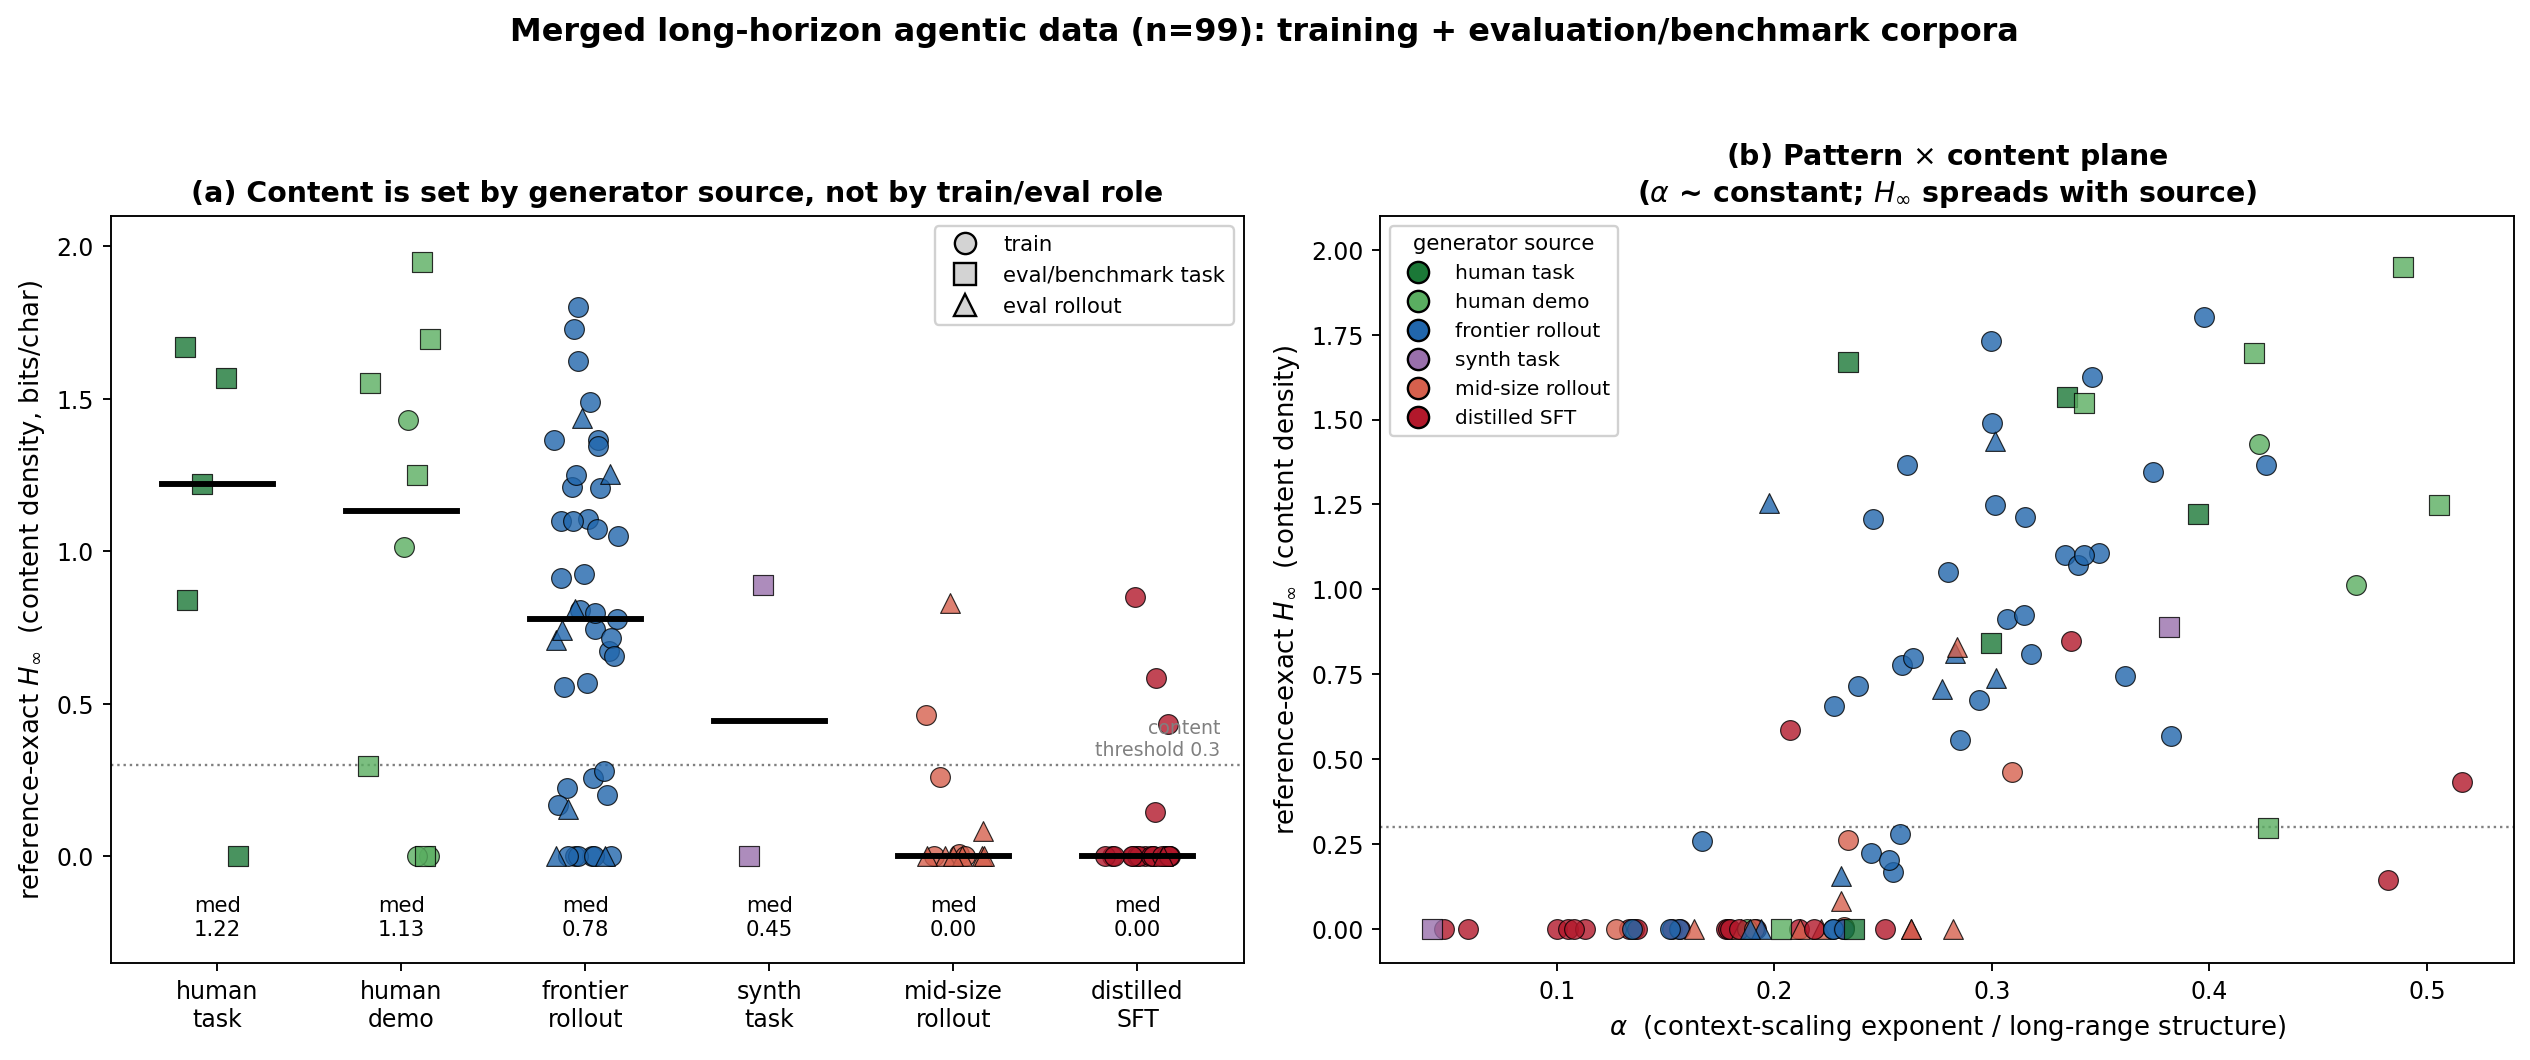
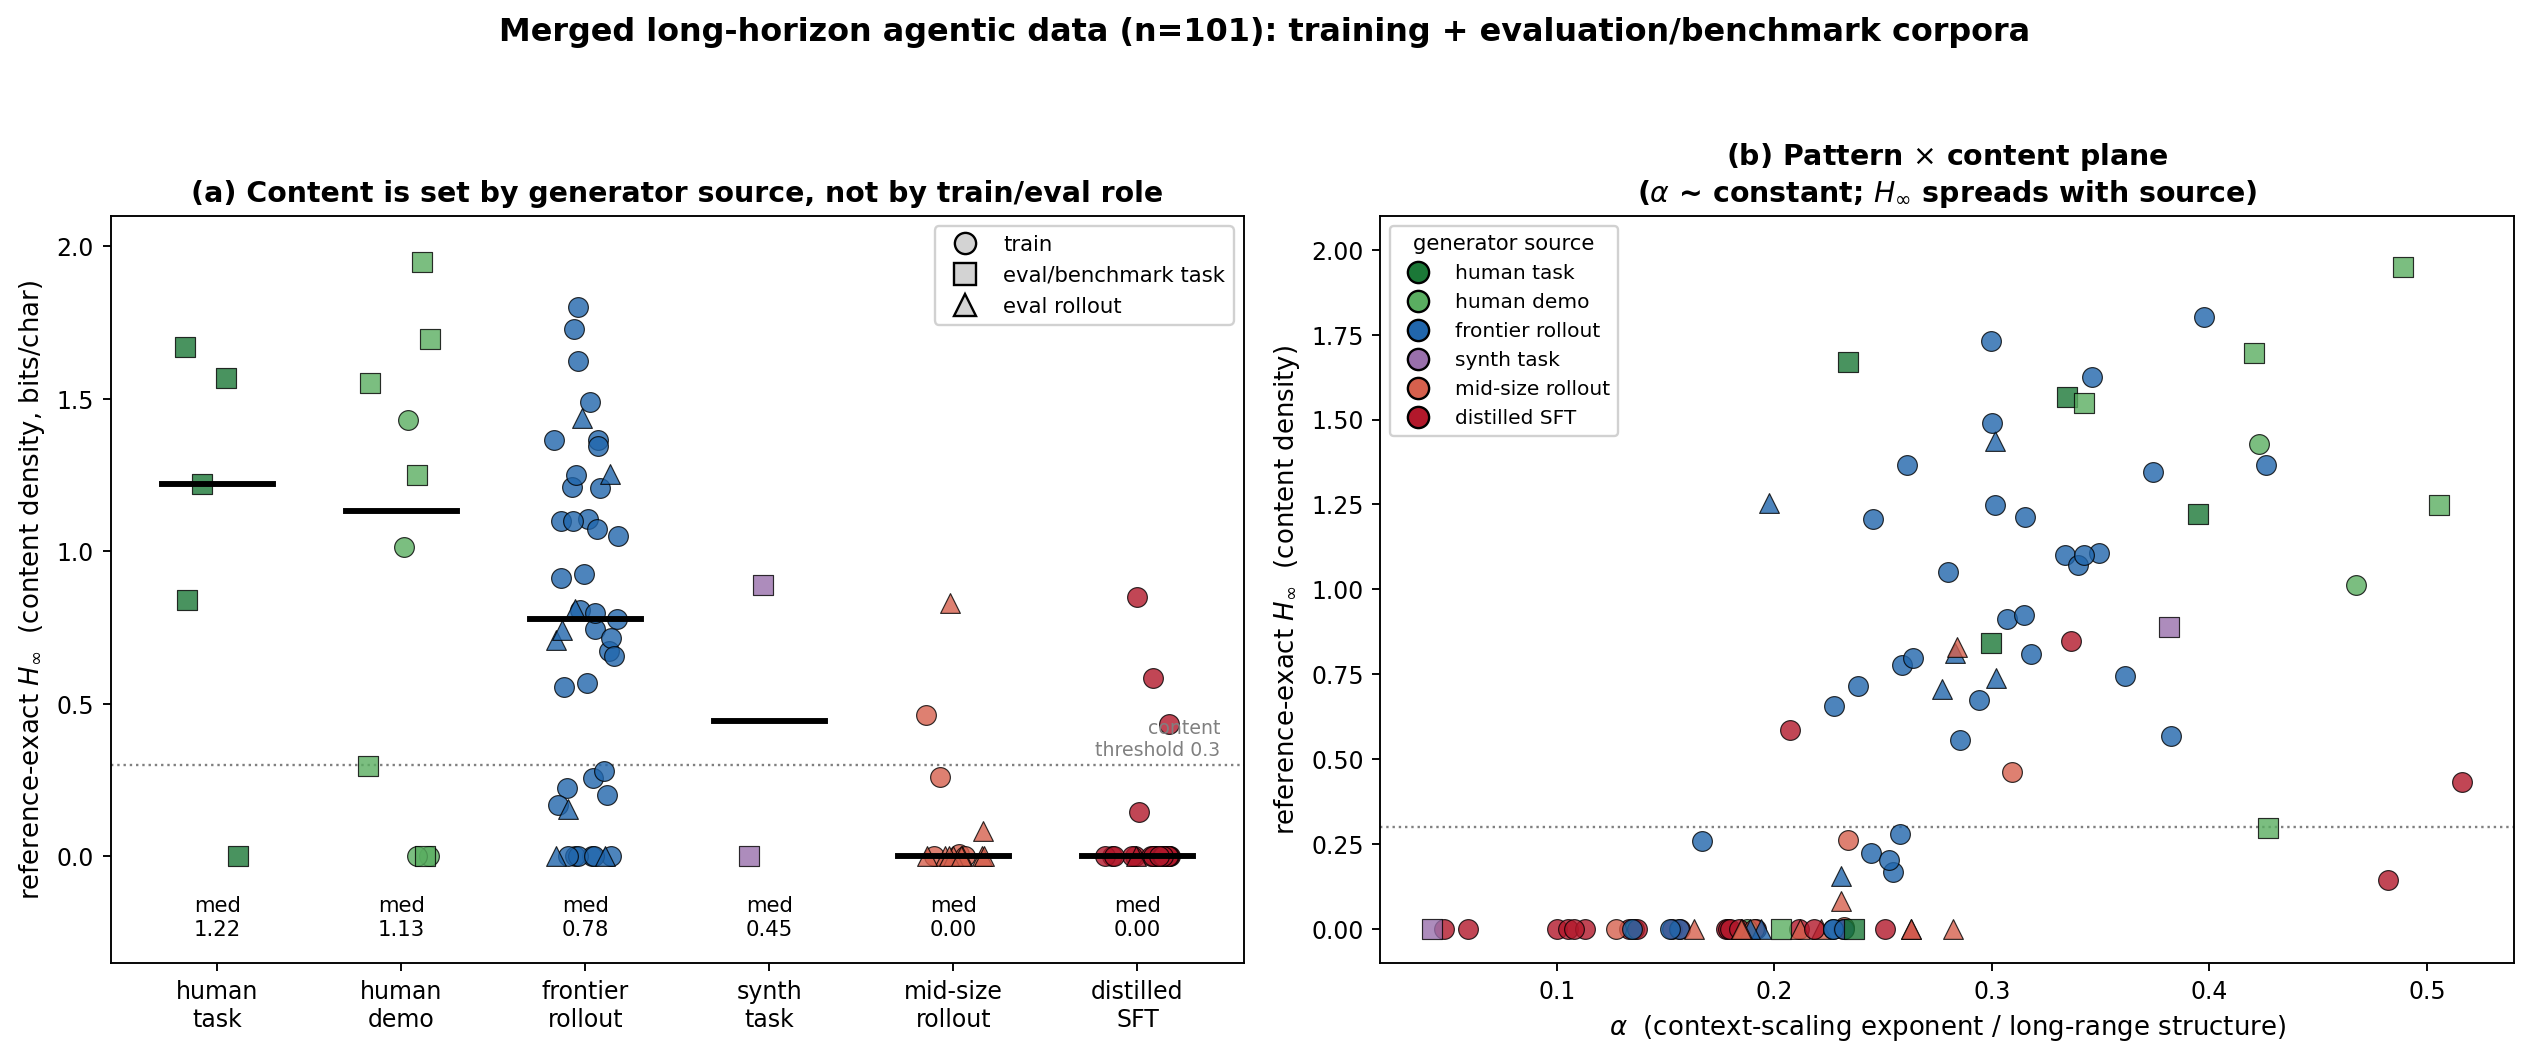
iter 72: extend terminus-2 capability ladder (+GPT-5-nano, +Claude-Haiku-4.5) -> hardens paper section 5.3
Full 5-point fixed-harness ladder: H_inf pinned at 0 for ALL, BPC@32K spans 0.97->1.77 ordering by capability/success (flagship GPT-5 1.77/Sonnet 1.75 > small Haiku 1.53/nano 1.43 > open Qwen3-32B 0.97, whose 172-turn failure loop dilutes density). Strongest evidence yet for the within-fixed-harness claim: H_inf useless, BPC@32K + turn-count track the generator. Registry -> 101 active / 107 CSV rows; paper exhibit expanded + counts synced (n=101).

Changed region(s): [[0.1874, 0.0, 0.8119, 0.0623], [0.4372, 0.7472, 0.4684, 0.7783]]

diff --git a/scripts/score_iter72.py b/scripts/score_iter72.py
@@ -1,0 +1,51 @@
+"""iter-72: extend the Terminal-Bench-2 / terminus-2 capability ladder.
+
+Adds GPT-5-nano and Claude-Haiku-4.5 rollouts (both terminus-2 harness) to
+harden the paper's within-fixed-harness claim that BPC@32K orders generators by
+capability. Reference-exact lz_oracle.score; full 17-col rows appended.
+"""
+import csv, datetime, json, os, statistics, sys
+sys.path.insert(0, os.path.dirname(__file__))
+import lz_oracle
+from datasets import load_dataset
+from huggingface_hub import HfApi
+
+ENTRIES = [
+    ("DCAgent/GPT-5-nano-terminal-bench-2", "train", "terminal-bench2-gpt5nano"),
+    ("DCAgent/eval-terminal-bench-2.0-claude-haiku-4-5-20251001-20260115_165217",
+     "train", "terminal-bench2-claude-haiku45"),
+]
+FIELDS = ["dataset","config","splits","slug","alpha","h_inf","h_inf_raw","bpc_128",
+          "bpc_2048","bpc_32768","n_episodes","mean_turns","mean_doc_bytes","n_bytes",
+          "h_inf_v3","h_inf_stderr","resolved"]
+OUT="data/agentic_alpha_hinf.csv"; rows=[]
+for path, split, slug in ENTRIES:
+    print(f"-> {path} ({slug})", flush=True)
+    docs,turns,size=[],[],0
+    for row in load_dataset(path, split=split, streaming=True):
+        msgs=row["conversations"]
+        doc="\n\n".join(f"[{m.get('role','?')}]\n{m.get('content') or ''}" for m in msgs)
+        if not doc: continue
+        docs.append(doc); turns.append(len(msgs)); size+=len(doc)
+        if len(docs)>=lz_oracle.MAX_DOCS or size>=lz_oracle.MAX_BYTES: break
+    s=lz_oracle.score(docs)
+    try: sha=HfApi().dataset_info(path).sha
+    except Exception: sha="unresolved"
+    rec={"dataset":path,"config":"","splits":split,"slug":slug,"alpha":s["alpha"],
+         "h_inf":s["h_inf"],"h_inf_raw":s["h_inf_raw"],"bpc_128":s["bpc_128"],
+         "bpc_2048":s["bpc_2048"],"bpc_32768":s["bpc_32768"],"n_episodes":len(docs),
+         "mean_turns":round(statistics.mean(turns),1) if turns else 0,
+         "mean_doc_bytes":round(statistics.mean(len(d) for d in docs)) if docs else 0,
+         "n_bytes":s["n_bytes"],"h_inf_v3":"","h_inf_stderr":"","resolved":""}
+    rows.append(rec)
+    print(f"   alpha={s['alpha']:.3f} H_inf={s['h_inf']:.3f} BPC@32K={s['bpc_32768']:.3f} ep={len(docs)} turns={rec['mean_turns']}", flush=True)
+    os.makedirs("data/provenance",exist_ok=True)
+    prov={"hf_dataset":path,"hf_url":f"https://huggingface.co/datasets/{path}","hf_revision_sha":sha,
+          "splits":[split],"serializer":"conversations_rc",
+          "oracle":{"compressor":f"zstd level {lz_oracle.ZSTD_LEVEL}","context_points":list(lz_oracle.N_POINTS)},
+          "collected_at_utc":datetime.datetime.now(datetime.timezone.utc).isoformat(),
+          "result":{k:rec[k] for k in ("alpha","h_inf","bpc_32768","n_episodes","mean_turns","n_bytes")}}
+    json.dump(prov,open(f"data/provenance/{slug}.json","w"),indent=2,ensure_ascii=False)
+with open(OUT,"a",newline="") as f:
+    csv.DictWriter(f,fieldnames=FIELDS).writerows(rows)
+print(f"\nappended {len(rows)} rows -> {OUT}")

diff --git a/scripts/build_merged_table.py b/scripts/build_merged_table.py
@@ -55,6 +55,9 @@ CLASS = {
     "terminal-bench2-claude-sonnet45":       ("EVAL_TRAJ", "terminal", "frontier"),
     # iter 71: frontier SWE-bench-Verified rollout (mini-swe-agent harness)
     "swebench-verified-claude-sonnet45-eval":("EVAL_TRAJ", "swe",      "frontier"),
+    # iter 72: extend terminus-2 capability ladder (small models)
+    "terminal-bench2-gpt5nano":              ("EVAL_TRAJ", "terminal", "mid"),
+    "terminal-bench2-claude-haiku45":        ("EVAL_TRAJ", "terminal", "mid"),
     # --- human-demonstration datasets (benchmarks w/ test splits + demos) ---
     "mind2web-actions":        ("EVAL_TASK", "web",    "human_demo"),
     "mind2web-fullobs":        ("EVAL_TASK", "web",    "human_demo"),

diff --git a/paper/long_horizon_agentic_data.md b/paper/long_horizon_agentic_data.md
@@ -1,13 +1,13 @@
 # A Compression-Oracle Survey of Long-Horizon Agentic Data: Merging Training and Evaluation by Pattern and Content
 
 **long-agentic-data project**
-*Built from the `SAMPLES.md` registry (99 active datasets / 105 scored rows, iters 1–71). Per-row table: `data/merged_analysis.csv` (`scripts/build_merged_table.py`). Figures: `figures/`. Supporting reports: `reports/`.*
+*Built from the `SAMPLES.md` registry (101 active datasets / 107 scored rows, iters 1–72). Per-row table: `data/merged_analysis.csv` (`scripts/build_merged_table.py`). Figures: `figures/`. Supporting reports: `reports/`.*
 
 ---
 
 ## Abstract
 
-We survey **99 long-horizon agentic corpora** — spanning model-trained SFT/RL trajectories, human-written benchmark tasks, human demonstrations, and agent rollouts collected on benchmarks — with a single cheap, tokenizer-free compression oracle, and merge training and evaluation data into one measurement table. For every corpus we measure a *pattern* axis (the context-scaling exponent α, the token-correlation decay β, and the Hurst exponent H) and a *content* axis (the reference-exact incompressible floor H∞, validated against true neural oracles at Spearman 0.97, with a directly measured companion BPC@32K). We report two dissociated findings. First, **pattern is a property of the agentic *format***: α is nearly constant across train/eval roles (median 0.24–0.34), and agentic data occupies a distinct correlation-decay phase (β ≈ 0.2–0.5) that does not overlap natural-language prose (β ≈ 1.1–1.4), with code/math as the bridge (β ≈ 0.5–0.8). Second, **content is set by who authored the token stream, not by whether the data is for training or testing**: median H∞ falls monotonically with generator source (human task 1.22, human demo 1.13, frontier rollout 0.78, synthetic task 0.45, mid-size rollout 0.00, distilled SFT 0.00), and this ordering cuts across the train/eval boundary — mid-size eval rollouts collapse to the template floor exactly as distilled training mixtures do. The consequence is a measurable **content gap**: the benchmark tasks we score agents against are human-authored and dense (median H∞ 1.22) while the training data we feed agents is content-sparse (median 0.26). We connect these statistics to a learning-curve theory (α_D = γ/2β) and to a training experiment that confirms SFT teaches trajectory *form*, and we surface one method caveat that survived audit: on single-harness-pooled eval rollouts the 3-point H∞ measures the agent scaffold as much as the generator, so BPC@32K and turn-count are the robust separators there. We keep the reference 3-point clamped H∞ as canonical for cross-domain comparability.
+We survey **101 long-horizon agentic corpora** — spanning model-trained SFT/RL trajectories, human-written benchmark tasks, human demonstrations, and agent rollouts collected on benchmarks — with a single cheap, tokenizer-free compression oracle, and merge training and evaluation data into one measurement table. For every corpus we measure a *pattern* axis (the context-scaling exponent α, the token-correlation decay β, and the Hurst exponent H) and a *content* axis (the reference-exact incompressible floor H∞, validated against true neural oracles at Spearman 0.97, with a directly measured companion BPC@32K). We report two dissociated findings. First, **pattern is a property of the agentic *format***: α is nearly constant across train/eval roles (median 0.24–0.34), and agentic data occupies a distinct correlation-decay phase (β ≈ 0.2–0.5) that does not overlap natural-language prose (β ≈ 1.1–1.4), with code/math as the bridge (β ≈ 0.5–0.8). Second, **content is set by who authored the token stream, not by whether the data is for training or testing**: median H∞ falls monotonically with generator source (human task 1.22, human demo 1.13, frontier rollout 0.78, synthetic task 0.45, mid-size rollout 0.00, distilled SFT 0.00), and this ordering cuts across the train/eval boundary — mid-size eval rollouts collapse to the template floor exactly as distilled training mixtures do. The consequence is a measurable **content gap**: the benchmark tasks we score agents against are human-authored and dense (median H∞ 1.22) while the training data we feed agents is content-sparse (median 0.26). We connect these statistics to a learning-curve theory (α_D = γ/2β) and to a training experiment that confirms SFT teaches trajectory *form*, and we surface one method caveat that survived audit: on single-harness-pooled eval rollouts the 3-point H∞ measures the agent scaffold as much as the generator, so BPC@32K and turn-count are the robust separators there. We keep the reference 3-point clamped H∞ as canonical for cross-domain comparability.
 
 ---
 
@@ -23,7 +23,7 @@ Long-horizon agentic data — multi-turn trajectories where a model interacts wi
 
 **Statement of contribution.** In summary, we:
 
-1. assemble and release a merged table of 99 long-horizon agentic corpora, each classified by role (train / eval-task / eval-traj), domain, and generator source, with reference-exact (α, H∞), directly measured BPC@32K, and where available β and Hurst (`data/merged_analysis.csv`);
+1. assemble and release a merged table of 101 long-horizon agentic corpora, each classified by role (train / eval-task / eval-traj), domain, and generator source, with reference-exact (α, H∞), directly measured BPC@32K, and where available β and Hurst (`data/merged_analysis.csv`);
 2. show that **pattern is the agentic-format genre signature** — α invariant across roles, and a distinct low-β correlation-decay phase separating agentic data from prose with code/math as the bridge (§4);
 3. show that **content (H∞) tracks generator source, not the train/eval role**, exposing a quantified content gap between human-authored benchmark tasks (median H∞ 1.22) and machine-generated training data (median 0.26) (§5);
 4. give a domain-dependent form/content decomposition (web/GUI observations are form, SWE observations are content) and a training experiment confirming SFT teaches form (§6–7); and
@@ -49,7 +49,7 @@ Long-horizon agentic data — multi-turn trajectories where a model interacts wi
 
 ### 3.1 The merged corpus
 
-The registry holds **105 scored rows**; 6 are 3-point fit artifacts (α < 0 or H∞ ≫ 1, plus one single-episode dump) and are dropped, leaving **99 active corpora**. We classify each along three axes (`scripts/build_merged_table.py`):
+The registry holds **107 scored rows**; 6 are 3-point fit artifacts (α < 0 or H∞ ≫ 1, plus one single-episode dump) and are dropped, leaving **101 active corpora**. We classify each along three axes (`scripts/build_merged_table.py`):
 
 | axis | values |
 | :-- | :-- |
@@ -57,7 +57,7 @@ The registry holds **105 scored rows**; 6 are 3-point fit artifacts (α < 0 or H
 | **domain** | swe · web · gui · tool · search · terminal · safety · embodied · mixed |
 | **source** | `human_task` · `human_demo` · `synth_task` · `frontier` (frontier-model rollout) · `mid` (mid-size-model rollout) · `distill` (GPT-4-class distillation/SFT mixture) |
 
-Counts: **TRAIN 69, EVAL_TASK 13, EVAL_TRAJ 17**; by source, frontier 45, distill 24, mid 13, human_demo 10, human_task 5, synth_task 2. The merge is deliberate: human-demonstration datasets (Mind2Web, WebLINX, GUI-Odyssey, AndroidControl, AgentNet, OpenCUA) straddle the train/eval line — they ship test splits *and* serve as demonstration training data — so `source` is the axis that carries the real signal, while `role` tests whether the train/eval label predicts anything (it largely does not; §5).
+Counts: **TRAIN 69, EVAL_TASK 13, EVAL_TRAJ 19**; by source, frontier 45, distill 24, mid 15, human_demo 10, human_task 5, synth_task 2. The merge is deliberate: human-demonstration datasets (Mind2Web, WebLINX, GUI-Odyssey, AndroidControl, AgentNet, OpenCUA) straddle the train/eval line — they ship test splits *and* serve as demonstration training data — so `source` is the axis that carries the real signal, while `role` tests whether the train/eval label predicts anything (it largely does not; §5).
 
 The role label is editorial for a handful of corpora: SWE-Gym and SWE-rebench are training *environments* whose released form is a task corpus (labeled `EVAL_TASK`); AgentNet/OpenCUA are human demos released as *training* data (labeled `TRAIN`, source `human_demo`). These calls do not move the central result, which is organized by `source`.
 
@@ -106,7 +106,7 @@ This is the paper's central result (Figure 1).
 | human demo (action streams) | 10 | **1.13** | 0.92 | 6/10 |
 | frontier-model rollout | 45 | **0.78** | 0.76 | 31/45 |
 | synthetic task | 2 | 0.45 | 0.45 | 1/2 |
-| mid-size-model rollout | 13 | **0.00** | 0.13 | 2/13 |
+| mid-size-model rollout | 15 | **0.00** | 0.11 | 2/15 |
 | distilled SFT mixture | 24 | **0.00** | 0.08 | 3/24 |
 
 By role, the same numbers re-sort to expose the gap:
@@ -115,7 +115,7 @@ By role, the same numbers re-sort to expose the gap:
 | :-- | --: | --: | :-- |
 | EVAL_TASK | 13 | **1.22** | human-authored tasks/demos → content-dense |
 | TRAIN | 69 | **0.26** | bimodal: healthy frontier minority + collapsed majority |
-| EVAL_TRAJ | 17 | **0.00** | model rollouts span the full range; H∞ also harness-confounded (§5.3) |
+| EVAL_TRAJ | 19 | **0.00** | model rollouts span the full range; H∞ also harness-confounded (§5.3) |
 
 **Content is authored, not roled.** The high-content end is human (written tasks + demonstrations); the low-content end is mid-size or distilled *model* generation. The decisive variable is the generator, and it dominates both train and eval. An eval rollout produced by a 7B–32B model (`EVAL_TRAJ`, source `mid`, H∞ ≈ 0) is statistically indistinguishable from a distilled training mixture (`TRAIN`, source `distill`, H∞ ≈ 0) — same template floor, same failure-loop length inflation (§6).
 
@@ -135,11 +135,13 @@ A batch of benchmark eval rollouts (iters 69–71) makes the source dominance co
 | GAIA-127 | R2EGym-32B | mid | OpenHands | **0.00** | 1.30 | 200 |
 | Terminal-Bench-2 | GPT-5 | frontier | terminus-2 | 0.00 | 1.77 | 10 |
 | Terminal-Bench-2 | Claude-Sonnet-4.5 | frontier | terminus-2 | 0.16 | 1.75 | 28 |
-| Terminal-Bench-2 | Qwen3-32B | mid | terminus-2 | 0.00 | 0.97 | 172 |
+| Terminal-Bench-2 | Claude-Haiku-4.5 | small | terminus-2 | 0.00 | 1.53 | 74 |
+| Terminal-Bench-2 | GPT-5-nano | small | terminus-2 | 0.00 | 1.43 | 25 |
+| Terminal-Bench-2 | Qwen3-32B | mid (open) | terminus-2 | 0.00 | 0.97 | 172 |
 
 The mid rollouts on GAIA and Terminal-Bench collapse to the template floor with the longest failure loops in their domains (long horizon is *not* high information density; §6). The SWE rollout stays healthy at 0.83 not because a 32B generator is strong but because **repository observations are content** (§6): on SWE the environment injects real code regardless of the agent.
 
-But reading the table carefully exposes a cautionary measurement result. **Within a fixed harness** (the three Terminal-Bench-2 rows, all `terminus-2`), BPC@32K orders the generators correctly — frontier 1.77 / 1.75 above mid 0.97 — and turn-count separates them sharply (10–28 vs 172), while H∞ is flat at the floor for all. **Across harnesses, H∞ entangles the agent scaffold with the generator**: the *same* frontier model, Claude-Sonnet-4.5, reads H∞ 0.16 under `terminus-2` but 0.00 under `mini-swe-agent` on SWE-bench-Verified, and a *mid* model under OpenHands (CoderForge 0.83) outscores it — because `mini-swe-agent`'s large fixed system prompt pools to zero across episodes (the §8 effect at benchmark scale). The clean-looking GAIA-127 contrast inherits the same caveat (ii-agent vs OpenHands). **The two statistics that survive the harness are BPC@32K and turn-count.** The operational rule for eval rollouts is therefore: prefer BPC@32K + turn-count over the 3-point H∞, which on single-harness-pooled rollouts measures the scaffold as much as the generator. (This does not bear on the §5.1 train-data result, where corpora mix many sources and are not pooled under one giant shared system prompt.)
+But reading the table carefully exposes a cautionary measurement result. **Within a fixed harness** (the five Terminal-Bench-2 rows, all `terminus-2`), H∞ is pinned at ≈ 0 for *every* model — flagship and small alike — yet BPC@32K spans a wide 0.97 → 1.77 and orders the generators by capability/success: flagship frontier (GPT-5 1.77, Sonnet-4.5 1.75) > small frontier-family (Haiku-4.5 1.53, GPT-5-nano 1.43) > open Qwen3-32B (0.97), whose 172-turn failure loop dilutes content per byte (finding 12, now within a controlled harness). Turn-count corroborates (GPT-5 solves in 10 turns; Qwen3-32B grinds 172). **Across harnesses, by contrast, H∞ entangles the agent scaffold with the generator**: the *same* frontier model, Claude-Sonnet-4.5, reads H∞ 0.16 under `terminus-2` but 0.00 under `mini-swe-agent` on SWE-bench-Verified, and a *mid* model under OpenHands (CoderForge 0.83) outscores it — because `mini-swe-agent`'s large fixed system prompt pools to zero across episodes (the §8 effect at benchmark scale). The clean-looking GAIA-127 contrast inherits the same caveat (ii-agent vs OpenHands). **The two statistics that survive the harness are BPC@32K and turn-count.** The operational rule for eval rollouts is therefore: prefer BPC@32K + turn-count over the 3-point H∞, which on single-harness-pooled rollouts measures the scaffold as much as the generator. (This does not bear on the §5.1 train-data result, where corpora mix many sources and are not pooled under one giant shared system prompt.)
 
 ### 5.4 The probe is a regime selector, not a recipe selector
 

diff --git a/SAMPLES.md b/SAMPLES.md
@@ -114,7 +114,7 @@
 
 ---
 
-## V. 总览速查（α × H∞ × horizon，迭代 71 时点，n=99 有效（含 6 个同源再序列化视图条目 + 4 个多模态文本通道条目 + iter-69/70/71 的 6 个 benchmark eval-rollout 条目）/ CSV 105 行含 6 项已剔除 / seed-σ 38 行；merged train+eval 分析见 `paper/long_horizon_agentic_data.md` + `data/merged_analysis.csv`）
+## V. 总览速查（α × H∞ × horizon，迭代 72 时点，n=101 有效（含 6 个同源再序列化视图条目 + 4 个多模态文本通道条目 + iters-69~72 的 8 个 benchmark eval-rollout 条目）/ CSV 107 行含 6 项已剔除 / seed-σ 38 行；merged train+eval 分析见 `paper/long_horizon_agentic_data.md` + `data/merged_analysis.csv`）
 
 ### Horizon 排行（bytes·ep⁻¹ 前五，仅 H∞>0.3 的健康轨迹；H∞≈0 的"空转膨胀"纪录（aider-polyglot 7B 322KB / R2EGym-32B 149.8 turns）见发现 12）
 
@@ -312,6 +312,7 @@
 | 65 | 2026-06-07 | **数学复核 + 多点法 + 可读重绘 + takeaway 重写**：(a) 闭式核验 `H∞=B₃−d23²/(d12−d23)`（分母=BPC 二阶差分→噪声主导→病态，敏感度 4.7×，与代码逐位一致）；(b) **多点法 score_v3（7 点到 524KB + 有界非线性最小二乘 + stderr + resolved 标志）落地并大量复活 H∞**：健康集/任务集 resolved=True 得真实正 floor（swe-bench-V 1.56±0.01、mind2web 1.68、OpenHands 轨迹 0.55–0.88），仅真模板集 resolved=False（"不收敛"本身成模板信号）；少数重池化集（swe-zero-12M/OT/apigen）渐近线不在窗口内→ 任何外推不可辨识 → 退回 BPC@32K；(c) 可读重绘 `figures/fig2_content_ranking.png` + `fig_signature_map.png`（大字 200dpi 去重叠）；(d) §VI takeaway + finding 20 按 BPC@32K 重写；**OpenThoughts 更正为 BPC@32K=1.38 mixed / descaffold 0.75 健康，低内容端因任务置换+JSON脚手架+短任务+单生成器，非空** |
 | 66 | 2026-06-07 | **上下文窗口稳健性检验（32K-token vs 32K-byte）**：把内容上下文从 32KB（≈8K token）改到 128KB（≈32K token）—— 四锚点全部下移 ~0.38–0.49 BPC（更长上下文压得更狠），但**排序完全不变**（ii-agent 3.05/2.67 > JetBrains 2.23/1.78 > swe-zero-OH 2.00/1.58 > OpenThoughts 1.38/0.89）；OpenThoughts 跌幅最大（短 episode 在 128KB 块内被跨 episode 池化加剧）—— 故 **32K-byte 仍为更干净的规范度量；内容排序对窗口选择稳健，科学结论不变**；OpenThoughts 两窗口均为 frontier 最低端，证其确属低内容而非度量窗口 artifact |
 | 67 | 2026-06-08 | **form-vs-choices 训练实验收尾（发现 21）**：双 SFT（template/healthy，Qwen2.5-1.5B，各 30M tok，gpu_requeue ~3h）完成 → held-out 评测。**FORM 证实**（base 0.78→template 0.99/healthy 0.96，SFT 教骨架到顶）；**DECISION 不可判**（三者含 base 全 ~2–3% 贴地，无动态范围 → inconclusive 不过度解读）；首跑评测 harness bug（parser 找 ``` 但格式 JSON，由 base 也贴地识破）修复后复跑得真信号；限制：1.5B/30M 规模小、decision 跨格式、仅确定性子集、template 臂非空（BPC@32K=1.38）。harness 就绪，待 ≥7B + in-format sandbox decision 检查放大重跑。报告 `reports/formchoice_results.md` |
+| 72 | 2026-06-09 | **Extend terminus-2 capability ladder (harden §5.3)**: +2 EVAL_TRAJ — GPT-5-nano (BPC@32K=1.43 / 25 turns) and Claude-Haiku-4.5 (1.53 / 74 turns) on Terminal-Bench-2, both terminus-2. **Full 5-point fixed-harness ladder: H∞ pinned at 0 for ALL, but BPC@32K spans 0.97→1.77 ordering by capability/success** — flagship (GPT-5 1.77 / Sonnet-4.5 1.75) > small frontier-family (Haiku 1.53 / nano 1.43) > open Qwen3-32B 0.97 (172-turn failure loop dilutes density, finding 12 within a controlled harness). Confirms §5.3: within a fixed harness H∞ is useless, BPC@32K + turn-count track the generator. `scripts/score_iter72.py`; → 101 active / 107 CSV rows; paper §5.3 exhibit expanded |
 | 71 | 2026-06-09 | **Frontier SWE-bench-Verified rollout → harness-confound finding**: +1 EVAL_TRAJ — Claude-Sonnet-4.5 on SWE-bench-Verified (mini-swe-agent harness, direct `.traj.json` read skipping malformed files, finding 10). **Frontier H∞=0.00 (raw −0.65) < mid CoderForge-32B 0.83 on the SAME benchmark** — the gap is the **agent harness scaffold**, not the generator: mini-swe-agent's large fixed system prompt pools to ~0 across episodes (§8 effect; finding 60 "format is a confound" at benchmark scale). BPC@32K close (1.60 vs 1.73). **Operational lesson now in paper §5**: for eval rollouts prefer BPC@32K + turn-count over 3-point H∞ (harness-confounded on single-harness-pooled rollouts); within a fixed harness (Terminal-Bench-2/terminus-2) BPC@32K + turns cleanly order frontier>mid. Consolidated 7-row per-benchmark exhibit added to paper. `scripts/score_iter71.py`; → 99 active / 105 CSV rows |
 | 70 | 2026-06-09 | **Frontier Terminal-Bench-2 rollouts (frontier-vs-mid on same benchmark)**: +2 EVAL_TRAJ rows — GPT-5 (H∞=0.00 / BPC@32K=1.77 / 10.4 turns) and Claude-Sonnet-4.5 (H∞=0.16 / BPC@32K=1.75 / 27.6 turns) on Terminal-Bench-2, vs iter-69 mid Qwen3-32B (H∞=0.00 / BPC@32K=**0.97** / **171.9 turns**). **Honest measurement nuance**: on the scaffold-heavy terminal domain canonical H∞ saturates at ≈0 for *everyone* (the §8 pooling-degenerate regime) — the frontier-vs-mid gap lives only in BPC@32K (1.77/1.75 vs 0.97) + turn count (10–28 vs 172). Confirms why the paper carries BPC@32K + turns alongside H∞: which statistic reveals the generator gap is domain-dependent (H∞ on SWE/search, companions on terminal). `scripts/score_iter70.py`; → 98 active / 104 CSV rows; paper §5 + figure refreshed |
 | 69 | 2026-06-09 | **Benchmark eval-rollout batch (merge-paper loop; communication in English per user)**: +3 EVAL_TRAJ rows scoring mid-size (≈32B) agent rollouts on three named benchmarks — Qwen3-32B on **Terminal-Bench-2** (new benchmark category, H∞=0.00 / 172 turns), R2EGym-32B on **GAIA-127** (H∞=0.00 / 200 turns), CoderForge-32B on **SWE-bench-Verified** (H∞=0.83 / 136 turns). **GAIA-127 mid 0.00 vs frontier ii-agent 1.25 = clean generator contrast on identical eval tasks**; terminal/search collapse with longest failure loops (finding 12) while SWE stays healthy because repo observations are content (finding 16). Confirms the merge paper's thesis: eval rollouts inherit the generator's content signature, modulated by domain, never by the train/eval label. `scripts/score_iter69.py` (reference-exact `lz_oracle.score`); merged table → 96 active / 102 CSV rows; paper + `fig_merge_content_source` refreshed. Scoring env rebuilt (formchoice venv + zstandard; `math` venv purged again) |